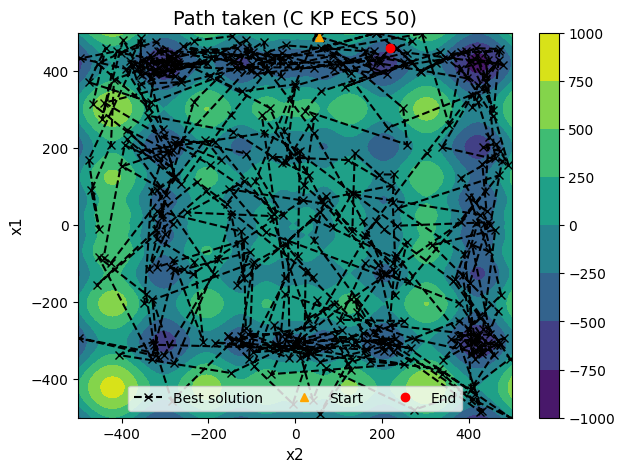
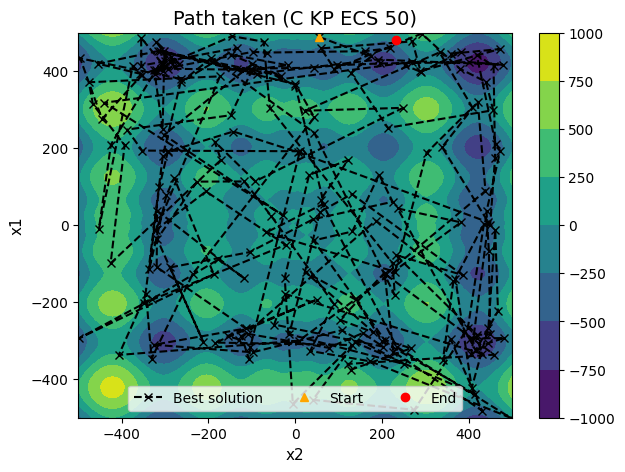
more ES plots

Changed region(s): [[0.1216, 0.0593, 0.8208, 0.8898]]

diff --git a/es_plot.py b/es_plot.py
@@ -5,7 +5,7 @@ import matplotlib.pyplot as plt
 DEST = "C:\\D\\Cambridge\\Part IIB\\Coursework\\4M17 Practical Optimisation\\4M17-CW2\\Results-ES\\"
 FIG_DEST = "C:\\D\\Cambridge\\Part IIB\\Coursework\\4M17 Practical Optimisation\\4M17-CW2\\Figures\\"
 FIGSIZE = (7, 5)
-FIGSIZE2 = (6.5, 5)
+FIGSIZE2 = (16, 5)
 CHILDREN_RECOMB = ["D", "GD"]
 SIGMA_RECOMB = ["I", "GI"]
 SELECT = ["NE", "E"]
@@ -104,31 +104,51 @@ def func(xx, yy):
 
 
 # 2D-SF only
-def plot_gens(params):
-    # df_hist = pd.read_csv(DEST + params + " hist", index_col=0)
-    # accepted = df_hist[df_hist['accept'] == True]
-    # x1 = np.array(accepted['x1'])[::25]
-    # x2 = np.array(accepted['x2'])[::25]
+def plot_gens(params, mu):
+    df_parents = pd.read_csv(DEST + params + " parents", index_col=0)
+    parents = np.array(df_parents)
+    generations = len(parents)
+    mid = 2
+    end = 4
+    start_gen = parents[0]
+    mid_gen = parents[mid]
+    final_gen = parents[end]
+
+    fig, (ax1, ax2, ax3) = plt.subplots(1,
+                                        3,
+                                        sharex=True,
+                                        sharey=True,
+                                        figsize=FIGSIZE2)
 
     x = np.linspace(-500, 500, 1001)
     y = np.linspace(-500, 500, 1001)
     xx, yy = np.meshgrid(x, y)
     zz = func(xx, yy)
 
-    plt.rcParams['figure.figsize'] = FIGSIZE2
-    plt.contourf(xx, yy, zz)
-    plt.colorbar()
-    # plt.plot(x1, x2, '--xk', label="Best solution")
-    # plt.plot(x1[0], x2[0], '^', color='orange', label="Start")
-    # plt.plot(x1[-1], x2[-1], 'or', label="End")
-    # plt.legend(ncol=3, loc="lower center")
-    plt.xlabel("x2", fontsize=11)
-    plt.ylabel("x1", fontsize=11)
-    # plt.title("Path taken (" + params[:-2] + ")", fontsize=14)
-    plt.savefig(FIG_DEST + "ES path " + params,
+    pcm = ax1.contourf(xx, yy, zz)
+    ax1.plot(start_gen[:mu], start_gen[mu:], 'or')
+    ax1.set_title("Generation 1")
+    ax2.contourf(xx, yy, zz)
+    ax2.plot(mid_gen[:mu], mid_gen[mu:], 'or')
+    ax2.set_title("Generation " + str(mid))
+    ax3.contourf(xx, yy, zz)
+    ax3.plot(final_gen[:mu], final_gen[mu:], 'or')
+    ax3.set_title("Generation " + str(end))
+
+    ax1.set_xlabel("x2", fontsize=11)
+    ax2.set_xlabel("x2", fontsize=11)
+    ax3.set_xlabel("x2", fontsize=11)
+    ax1.set_ylabel("x1", fontsize=11)
+
+    ax4 = fig.add_axes([0.93, 0.1, 0.01, 0.8])
+    fig.colorbar(pcm, cax=ax4)
+    fig.suptitle("Population Evolution with Generations (" + params[:-2] + ")",
+                 fontsize=14)
+
+    fig.savefig(FIG_DEST + "ES path " + params,
                 transparent=True,
                 bbox_inches='tight')
-    plt.clf()
+    # fig.clf()
 
 
 def main():
@@ -147,7 +167,7 @@ def main():
             str(dim)
         ])
         plot_ave_min(filename)
-        plot_gens(filename)
+        plot_gens(filename, mu)
 
     # 6D-SF
     plot_MO_RT()  # Plot minimum objective and running times

diff --git a/sa_plot.py b/sa_plot.py
@@ -119,8 +119,9 @@ def func(xx, yy):
 def plot_path(params):
     df_hist = pd.read_csv(DEST + params + " hist", index_col=0)
     accepted = df_hist[df_hist['accept'] == True]
-    x1 = np.array(accepted['x1'])[::25]
-    x2 = np.array(accepted['x2'])[::25]
+    step = 50
+    x1 = np.array(accepted['x1'])
+    x2 = np.array(accepted['x2'])
 
     x = np.linspace(-500, 500, 1001)
     y = np.linspace(-500, 500, 1001)
@@ -130,8 +131,8 @@ def plot_path(params):
     plt.rcParams['figure.figsize'] = FIGSIZE2
     plt.contourf(xx, yy, zz)
     plt.colorbar()
-    plt.plot(x1, x2, '--xk', label="Best solution")
-    plt.plot(x1[0], x2[0], '^', color='orange', label="Start")
+    plt.plot(x1[::step], x2[::step], '--xk', label="Best solution")
+    plt.plot(x1[::step][0], x2[::step][0], '^', color='orange', label="Start")
     plt.plot(x1[-1], x2[-1], 'or', label="End")
     plt.legend(ncol=3, loc="lower center")
     plt.xlabel("x2", fontsize=11)
@@ -156,7 +157,7 @@ def main():
         plot_path(filename)
 
     # 6D-SF
-    plot_MO_RT() # Plot minimum objective and running times
+    plot_MO_RT()  # Plot minimum objective and running times
 
     # Plot objective and temperature against iterations
     for case in cases:
